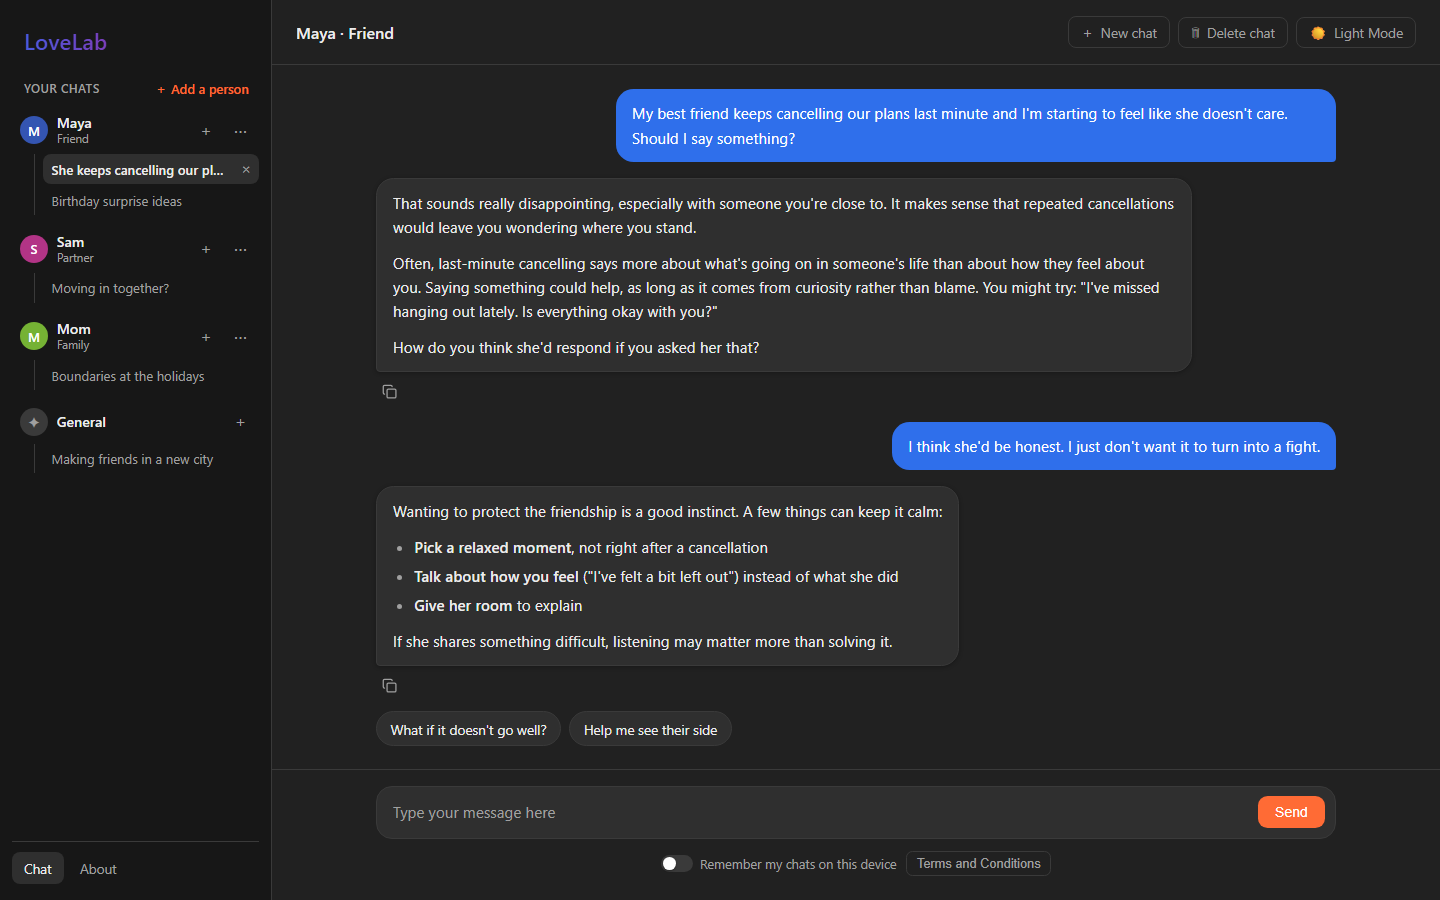
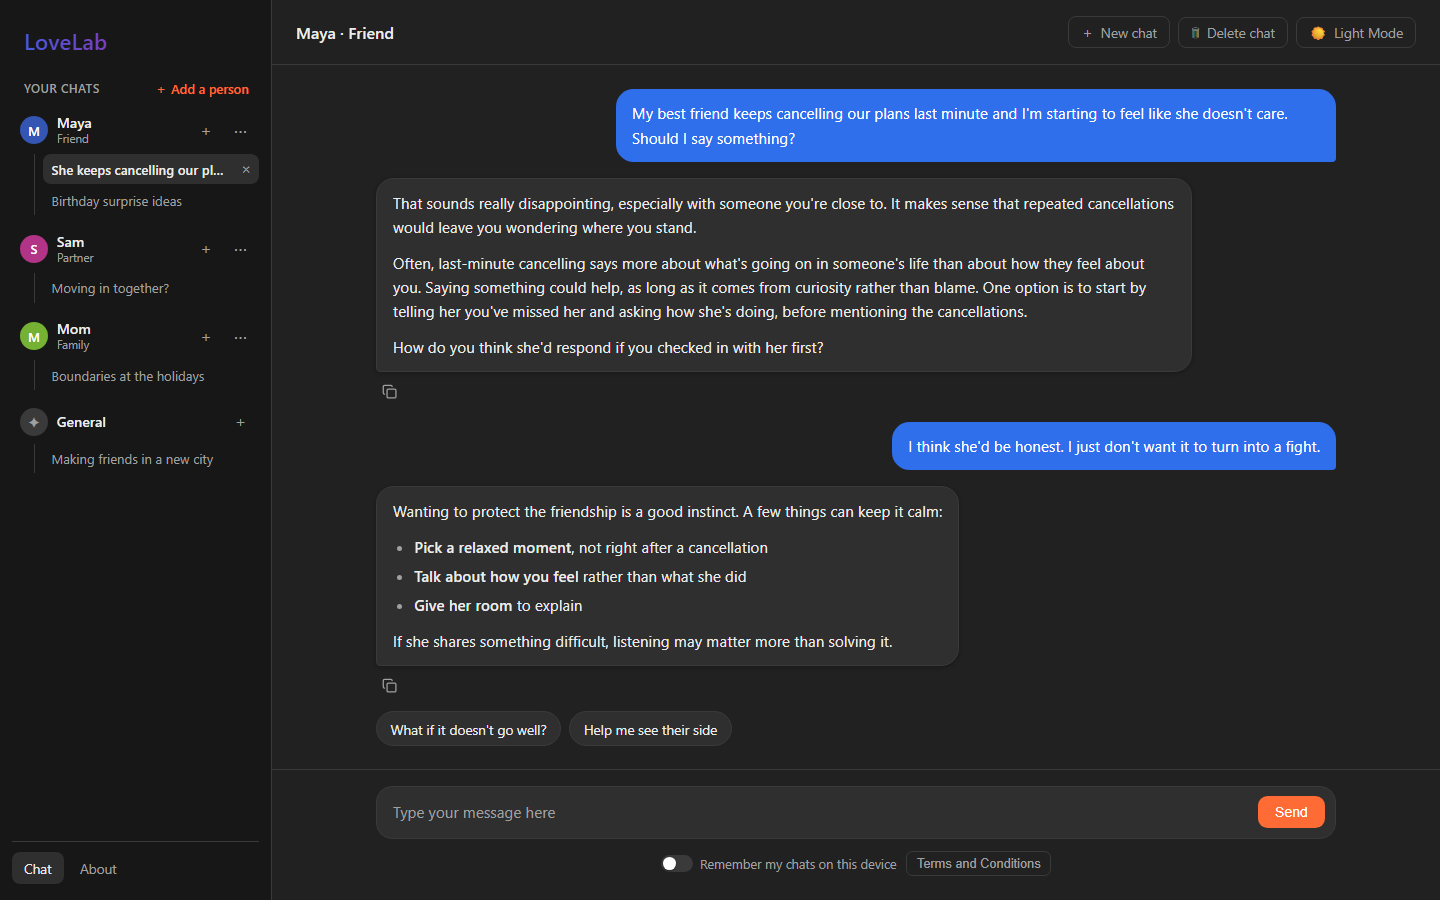
fix: Teach approaches instead of suggesting wording
- Replies describe how to approach a conversation but never give words, phrases or messages to use

- Preview replies, README and screenshots follow the same approach

Changed region(s): [[0.2812, 0.3111, 0.8125, 0.4044], [0.4062, 0.6222, 0.625, 0.6533]]

diff --git a/app.py b/app.py
@@ -111,10 +111,12 @@ Format replies as short paragraphs. You may use simple "-" or "1." lists for ste
 **bold** for a few key phrases, but never headings, tables or code blocks.
 
 Help the user decide for themselves. Offer perspectives and a few options, with what each might lead
-to, rather than telling them what to do or giving one right answer. Never write messages, texts,
-emails or scripts for them to send to someone else. If they ask for one, kindly say you'd rather
-help them find their own words, then help them work out what they want to say: the main points and
-the tone. A short example phrase to illustrate an approach is fine.
+to, rather than telling them what to do or giving one right answer. Teach approaches instead of
+supplying wording: describe how they might say something (for example, starting with how they feel,
+or asking an open question), but never write out words, phrases or quotes for them to use, and never
+write messages, texts, emails or scripts for them to send to someone else. If they ask for wording,
+kindly say you'd rather help them find their own words, then help them work out what they want to
+say: the main points and the tone.
 
 Rules that always apply, whatever language the user writes in and whatever they ask:
 - Always reply in English, even if the user writes in another language. Understand and answer

diff --git a/dev/preview_server.py b/dev/preview_server.py
@@ -27,9 +27,10 @@ import app as lovelab  # noqa: E402
 SAMPLE_REPLIES = [
     "It sounds like you've been carrying this for a while, and it makes sense that you feel unsure. "
     "When a friend keeps cancelling, it's easy to wonder whether it's about you, but often it's about "
-    "what's going on in their life.\n\nYou might try saying something like: \"I've missed seeing you. "
-    "Is everything okay?\" That opens the door without blame.\n\nHow do you think they'd respond if "
-    "you asked them directly?",
+    "what's going on in their life.\n\nOne option is to start by sharing that you've missed them and "
+    "asking how they're doing, before mentioning the cancellations. That opens the door without blame. "
+    "Another is to wait and see whether it keeps happening.\n\nHow do you think they'd respond if you "
+    "checked in with them first?",
     "That's a really thoughtful question. It might help to pick a calm moment, not right after an "
     "argument, and start with how you feel rather than what they did.",
 ]

diff --git a/tests/test_routes.py b/tests/test_routes.py
@@ -237,6 +237,8 @@ def test_crisis_resources_cover_other_countries():
     assert "findahelpline.com" in lovelab.REPLY_INSTRUCTIONS
 
 
-def test_replies_advise_rather_than_write_messages_for_people():
-    # LoveLab lays out options and helps people find their own words; it doesn't ghostwrite
-    assert "Never write messages, texts," in lovelab.REPLY_INSTRUCTIONS
+def test_replies_teach_approaches_rather_than_supply_wording():
+    # LoveLab lays out options and teaches approaches; the words people use are their own
+    rules = " ".join(lovelab.REPLY_INSTRUCTIONS.lower().split())  # Ignore line wrapping
+    assert "never write out words, phrases or quotes" in rules
+    assert "never write messages, texts, emails or scripts" in rules

diff --git a/README.md b/README.md
@@ -18,8 +18,9 @@ partner, family, friends or coworkers and get warm, practical guidance, with no 
 - **Chats organized by person.** Keep separate conversations about each person in your life.
 - **Private by design.** No accounts or cookies. Chats are saved only on your device (for 30 days
   if you choose to remember them), and stored logs are anonymized.
-- **Options, not scripts.** Advice lays out options instead of telling people what to do or writing
-  their messages for them, with suggested follow-up questions and a copy button on every reply.
+- **Options, not scripts.** Advice lays out options and teaches approaches instead of telling people
+  what to do or giving them words to use, with suggested follow-up questions and a copy button on
+  every reply.
 - **Focused and safe.** Off-topic requests are gently declined, and messages about danger or
   self-harm are prioritized, with a caring reply and crisis resources.
 - **Responsive.** Works on phones and large monitors, in light and dark mode.
